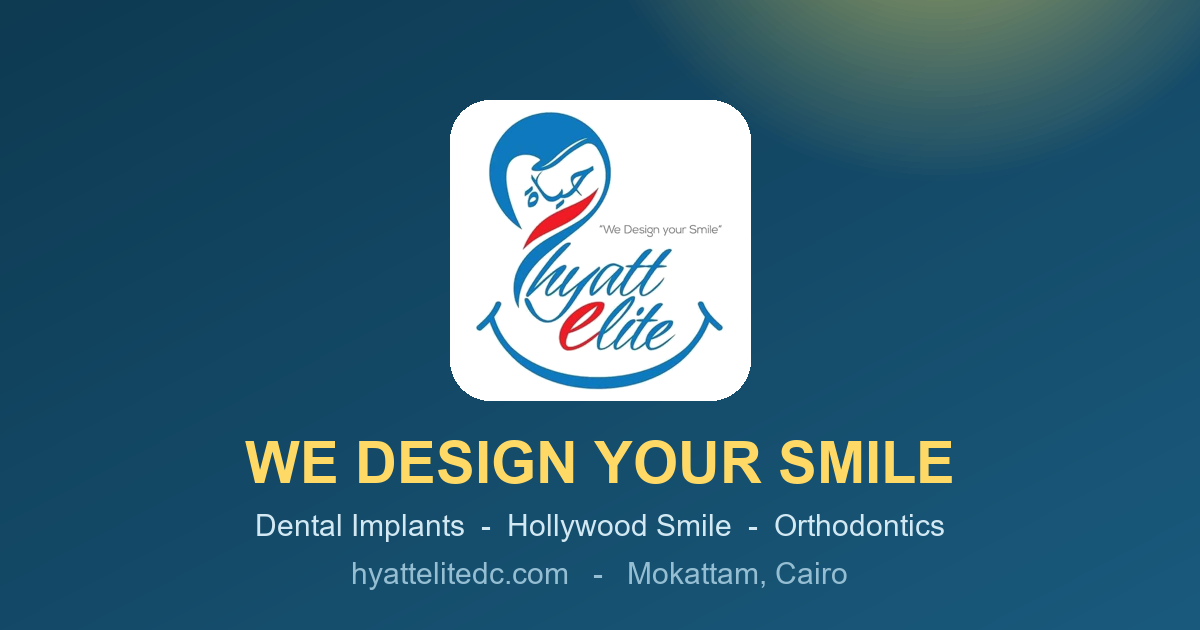
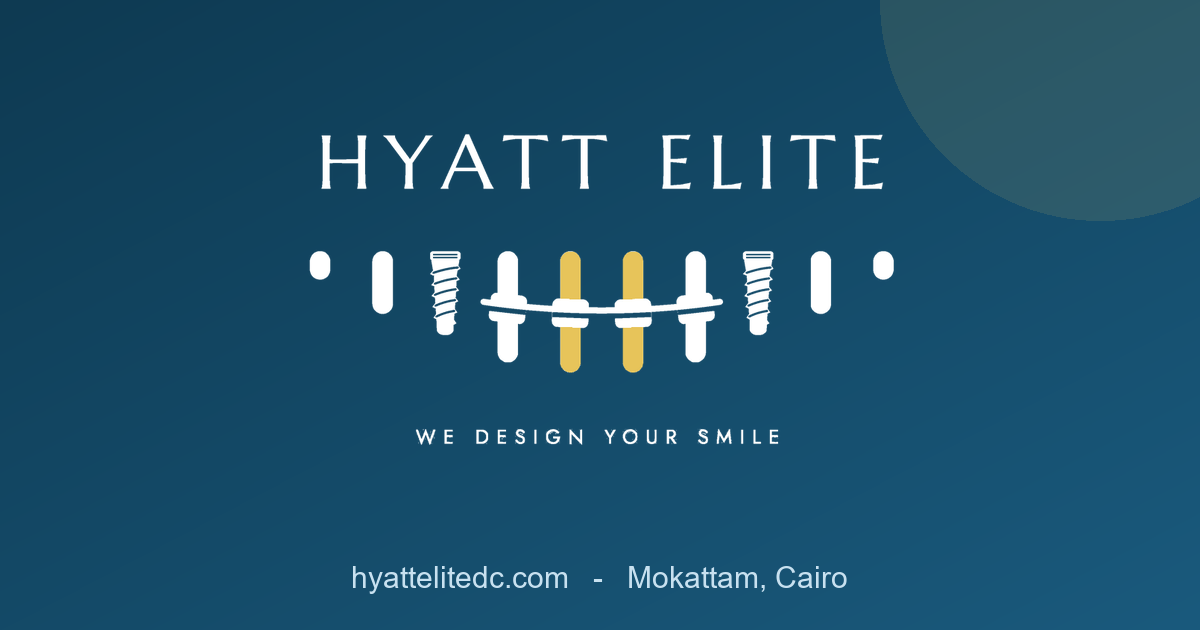
تحديث هوية العلامة: استبدال اللوجو القديم باللوجو الجديد HYATT ELITE
- لوجو ملون افقي للخلفيات الفاتحة + نسخة بيضاء للخلفيات الداكنة
- ايقونة مربعة جديدة للـ favicon و apple-touch والـ preloader
- تحديث صورة المشاركة og-image باللوجو الجديد
- تحديث ايقونات صفحات العروض والاستبيان

diff --git a/index.html b/index.html
@@ -19,8 +19,8 @@
 <meta name="robots" content="index, follow, max-image-preview:large, max-snippet:-1">
 <meta name="theme-color" content="#0e3a52">
 <link rel="canonical" href="https://hyattelitedc.com/">
-<link rel="icon" href="assets/logo.png" type="image/png">
-<link rel="apple-touch-icon" href="assets/logo.png">
+<link rel="icon" href="assets/icon.png" type="image/png">
+<link rel="apple-touch-icon" href="assets/icon.png">
 <!-- Geo / Local SEO -->
 <meta name="geo.region" content="EG-C">
 <meta name="geo.placename" content="المقطم، القاهرة">
@@ -450,7 +450,7 @@
   <svg width="0" height="0" style="position:absolute" aria-hidden="true"><defs><linearGradient id="plGrad" x1="0" y1="0" x2="1" y2="1"><stop offset="0" stop-color="#ffd966"/><stop offset="1" stop-color="#c9a227"/></linearGradient></defs></svg>
   <div class="pl-logo">
     <svg class="pl-ring" viewBox="0 0 120 120" aria-hidden="true"><circle cx="60" cy="60" r="54"/></svg>
-    <img class="pl-img" src="assets/logo.png" alt="شعار مركز حياة اليت">
+    <img class="pl-img" src="assets/icon.png" alt="شعار مركز حياة اليت">
     <span class="pl-shine" aria-hidden="true"></span>
     <span class="pl-halo" aria-hidden="true"></span>
   </div>

diff --git a/ortho/egypt/index.html b/ortho/egypt/index.html
@@ -5,7 +5,7 @@
 <meta name="viewport" content="width=device-width, initial-scale=1.0">
 <title>تقويم الأسنان — احجز استشارتك | حياة اليت لطب الأسنان</title>
 <meta name="description" content="تقويم الأسنان في مركز حياة اليت لطب الأسنان — تحسين اصطفاف الأسنان والعضة وتناسق الابتسامة. تقويم ثابت أو شفاف. ابدأ بمقدم 10,000 وقسّط الباقي على سنة. أرسل أشعتك ويتواصل معك فريقنا الطبي.">
-<link rel="icon" href="../../logo.png">
+<link rel="icon" href="../../icon.png">
 <meta property="og:title" content="تقويم الأسنان — حياة اليت لطب الأسنان">
 <meta property="og:description" content="ابتسامتك مش بس شكل جميل — ابدأ تقويمك بمقدم 10,000 وقسّط الباقي على سنة. أرسل أشعتك الآن.">
 <meta property="og:image" content="https://hyattelitedc.com/ortho/egypt/assets/ortho-after.jpg">

diff --git a/smile/gulf-offer/index.html b/smile/gulf-offer/index.html
@@ -5,7 +5,7 @@
 <meta name="viewport" content="width=device-width, initial-scale=1.0">
 <title>باقة هوليوود سمايل فينير — عرض الخليج | حياة اليت لطب الأسنان</title>
 <meta name="description" content="باقة تركيبات Hollywood Smile Veneers لعملاء الخليج — عدسات أسنان سويسرية للفكين لابتسامة طبيعية ثابتة تدوم، بسعر 200,000 جنيه مصري في مركز حياة اليت لطب الأسنان بالمقطم، القاهرة.">
-<link rel="icon" href="../../logo.png">
+<link rel="icon" href="../../icon.png">
 <meta property="og:title" content="باقة هوليوود سمايل فينير — عرض الخليج | حياة اليت">
 <meta property="og:description" content="عدسات أسنان سويسرية للفكين لابتسامة طبيعية — 200,000 جنيه مصري. احجز عبر واتساب.">
 <meta property="og:image" content="https://hyattelitedc.com/smile/gulf-offer/assets/case-1.jpg">

diff --git a/implants/gulf-offer/index.html b/implants/gulf-offer/index.html
@@ -5,7 +5,7 @@
 <meta name="viewport" content="width=device-width, initial-scale=1.0">
 <title>باقة زراعة الفكين بالتركيبات — عرض الخليج | حياة اليت لطب الأسنان</title>
 <meta name="description" content="باقة زراعة الفكين بالتركيبات لعملاء الخليج — زرعات سويسرية للفكين بتركيبات دائمة بسعر 350,000 جنيه مصري في مركز حياة اليت لطب الأسنان بالمقطم، القاهرة.">
-<link rel="icon" href="../../logo.png">
+<link rel="icon" href="../../icon.png">
 <meta property="og:title" content="باقة زراعة الفكين بالتركيبات — عرض الخليج | حياة اليت">
 <meta property="og:description" content="زرعات سويسرية للفكين بتركيبات دائمة — 350,000 جنيه مصري. احجز تقييمك عبر واتساب.">
 <meta property="og:image" content="https://hyattelitedc.com/assets/og-image.png">

diff --git a/survey/index.html b/survey/index.html
@@ -5,7 +5,7 @@
 <meta name="viewport" content="width=device-width, initial-scale=1.0">
 <title>استبيان قياس رضا المرضى | حياة اليت لطب الأسنان</title>
 <meta name="description" content="استبيان قياس رضا المرضى في مركز حياة اليت لطب الأسنان — قيّم تجربتك لتطوير خدماتنا وتحسين جودة الرعاية الطبية.">
-<link rel="icon" href="../logo.png">
+<link rel="icon" href="../icon.png">
 <meta name="robots" content="noindex">
 <link rel="preconnect" href="https://fonts.googleapis.com">
 <link rel="preconnect" href="https://fonts.gstatic.com" crossorigin>
